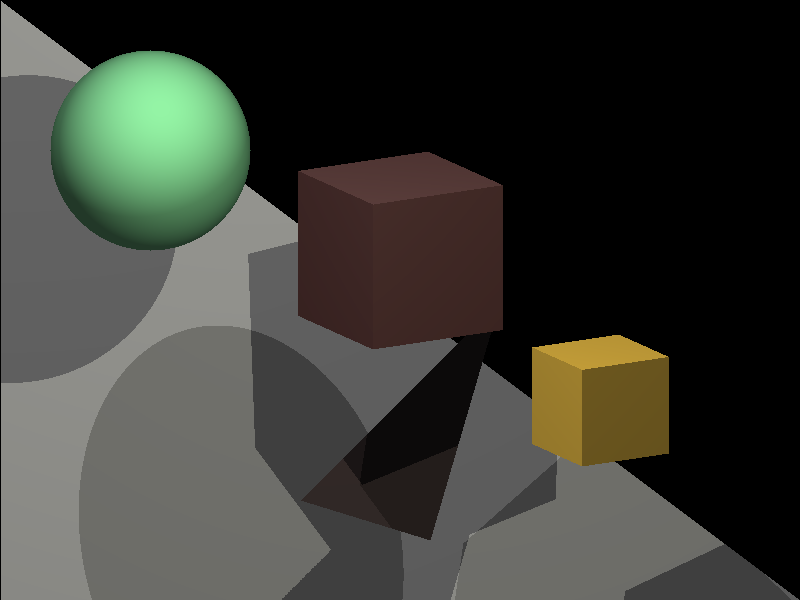
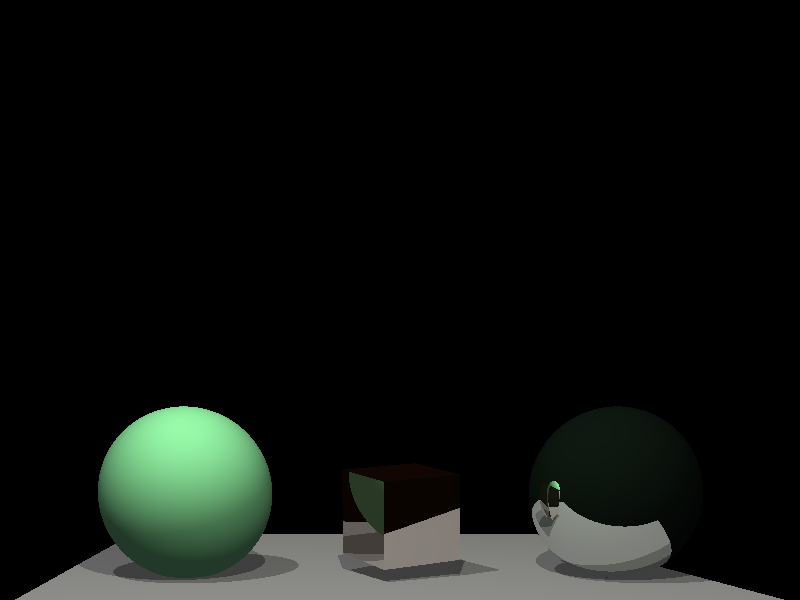
fix reflection and start work on specular coloring

diff --git a/Commons/RayTracer.cs b/Commons/RayTracer.cs
@@ -3,9 +3,8 @@ using Commons.Lighting;
 
 namespace Commons;
 
-public class RayTracer(List<IObject3D> sceneObjects, List<LightSource> lightSources, int maxDepth = 10)
+public class RayTracer(List<IObject3D> sceneObjects, List<LightSource> lightSources, int maxDepth = 6)
 {
-    private int _maxDepth = maxDepth;
     public List<IObject3D> SceneObjects => sceneObjects;
     public List<LightSource> LightSources => lightSources;
 
@@ -25,7 +24,6 @@ public class RayTracer(List<IObject3D> sceneObjects, List<LightSource> lightSour
                 var intersectionPoint = CalcHelper.IntersectionPoint(ray, intersectionDistance);
 
                 color = CalcColor(ray, sceneObject, intersectionPoint, depth);
-                //color += sceneObject.Color * AmbientLight;
             }
         }
 
@@ -40,17 +38,14 @@ public class RayTracer(List<IObject3D> sceneObjects, List<LightSource> lightSour
             var vectorToLightSource = (lightSource.Position - intersectionPoint).Normalize();
             var intersectionPointIsInShadow = CheckRayIntersectionWithOtherObjects(vectorToLightSource, intersectionPoint, lightSource, sceneObject);
 
-            if (!intersectionPointIsInShadow)
-            {
-                var colorFactor = Math.Max(0, sceneObject.Normalized.ScalarProduct(vectorToLightSource));
-                color += sceneObject.Material.Diffuse * lightSource.Color * colorFactor * lightSource.Intensity * (1.0 / LightSources.Count);
-            }
+            if (!intersectionPointIsInShadow) color += AddDiffuseColoring(sceneObject, lightSource, vectorToLightSource);
+            //color += AddSpecularColoring(sceneObject, lightSource, vectorToLightSource, ray);
         }
 
         if (sceneObject.Material.Reflectivity > 0 && currentDepth < maxDepth)
         {
             var reflectionDirection = CalcReflectionDir(ray.Direction, sceneObject);
-            var reflectionRay = new Ray(intersectionPoint, reflectionDirection);
+            var reflectionRay = new Ray(intersectionPoint + reflectionDirection * MathConstants.Epsilon, reflectionDirection);
 
             var reflectionColor = CalcRay(reflectionRay, currentDepth + 1);
 
@@ -58,6 +53,29 @@ public class RayTracer(List<IObject3D> sceneObjects, List<LightSource> lightSour
         }
 
         return color;
+    }
+
+    private RgbColor AddSpecularColoring(IObject3D sceneObject, LightSource lightSource, Vector3D vectorToLightSource, Ray ray)
+    {
+        if (sceneObject.Material.Shininess > 0)
+        {
+            var lightIntensity = lightSource.Intensity * (1.0 / LightSources.Count);
+            var reflection = CalcReflectionDir(-vectorToLightSource, sceneObject);
+            var specularExponent = sceneObject.Material.Shininess * MathConstants.ShininessMultiplier;
+            var shininessFactor = Math.Pow(Math.Max(0, reflection.ScalarProduct(-ray.Direction)), specularExponent);
+
+            return sceneObject.Material.Specular * lightIntensity * shininessFactor;
+        }
+
+        return new RgbColor(0, 0, 0);
+    }
+
+    private RgbColor AddDiffuseColoring(IObject3D sceneObject, LightSource lightSource, Vector3D vectorToLightSource)
+    {
+        var lightIntensity = lightSource.Intensity * (1.0 / LightSources.Count);
+        var colorFactor = Math.Max(0, sceneObject.Normalized.ScalarProduct(vectorToLightSource));
+
+        return sceneObject.Material.Diffuse * lightSource.Color * colorFactor * lightIntensity;
     }
 
     private bool CheckRayIntersectionWithOtherObjects(Vector3D vectorToLightSource, Vector3D intersectionPoint, LightSource lightSource, IObject3D self)

diff --git a/Reflection/Program.cs b/Reflection/Program.cs
@@ -16,13 +16,15 @@ internal static class Program
 
     private static readonly List<IObject3D> Objects3D =
     [
-        new Triangle(new Vector3D(0, 600, 600), new Vector3D(800, 600, 600), new Vector3D(0, 0, 600), MaterialFactory.Create(MaterialType.Chrome, 0)),
-
-        new Triangle(new Vector3D(430, 540, 400), new Vector3D(500, 300, 400), new Vector3D(300, 500, 400), MaterialFactory.Create(MaterialType.Copper, 0)),
-        new Cube(new Vector3D(600, 400, 100), 100, MaterialFactory.Create(MaterialType.Gold, 0), 30),
-
-        new Cube(new Vector3D(400, 250, 200), 150, MaterialFactory.Create(MaterialType.RedRubber, 0), 30),
-        new Sphere(new Vector3D(150, 150, 200), 100, MaterialFactory.Create(MaterialType.Jade, 0))
+        new Sphere(new Vector3D(150, 475, 200), 100, MaterialFactory.Create(MaterialType.Jade, 0)),
+        new Cube(new Vector3D(400, 500, 200), 100, MaterialFactory.Create(MaterialType.Copper, 0.9), 30),
+        new Sphere(new Vector3D(650, 475, 200), 100, MaterialFactory.Create(MaterialType.Jade, 0.9)),
+        //floor
+        new Triangle(new Vector3D(0, 600, 40), new Vector3D(800, 600, 40), new Vector3D(0, 500, 600), MaterialFactory.Create(MaterialType.Chrome, 0)),
+        new Triangle(new Vector3D(800, 600, 40), new Vector3D(600, 500, 600), new Vector3D(0, 500, 600), MaterialFactory.Create(MaterialType.Chrome, 0))
+        //walls
+        //new Triangle(new Vector3D(0, 600, 40), new Vector3D(0, 0, 40), new Vector3D(40, 0, 600), MaterialFactory.Create(MaterialType.Chrome, 0)),
+        //new Triangle(new Vector3D(800, 600, 40), new Vector3D(800, 0, 40), new Vector3D(760, 0, 600), MaterialFactory.Create(MaterialType.Chrome, 0))
     ];
 
     private static readonly List<LightSource> LightSources =
@@ -52,7 +54,12 @@ internal static class Program
         for (var y = 0; y < Height; y++)
             for (var x = 0; x < Width; x++)
             {
-                var rayIntoScreen = new Ray(new Vector3D(x, y, 0), new Vector3D(0, 0, 1));
+                var origin = new Vector3D(x, y, 0);
+                var focus = new Vector3D(Width / 2, 599, -1200);
+                var direction = origin - focus;
+                var rayIntoScreen = new Ray(origin, direction);
+
+
                 var color = rayTracer.CalcRay(rayIntoScreen);
                 image[x, y] = color.ConvertToRgba32();
             }

diff --git a/random-pixel-image/obj/Debug/net9.0/random-pixel-image.AssemblyInfo.cs b/random-pixel-image/obj/Debug/net9.0/random-pixel-image.AssemblyInfo.cs
@@ -13,7 +13,7 @@ using System.Reflection;
 [assembly: System.Reflection.AssemblyCompanyAttribute("random-pixel-image")]
 [assembly: System.Reflection.AssemblyConfigurationAttribute("Debug")]
 [assembly: System.Reflection.AssemblyFileVersionAttribute("1.0.0.0")]
-[assembly: System.Reflection.AssemblyInformationalVersionAttribute("1.0.0+dc7f8d16df0912e6e0243f245f10f631d2d5f952")]
+[assembly: System.Reflection.AssemblyInformationalVersionAttribute("1.0.0+907421813b6e96398edb88ed689b55dbc2307682")]
 [assembly: System.Reflection.AssemblyProductAttribute("random-pixel-image")]
 [assembly: System.Reflection.AssemblyTitleAttribute("random-pixel-image")]
 [assembly: System.Reflection.AssemblyVersionAttribute("1.0.0.0")]

diff --git a/SimpleCircle/obj/Debug/net9.0/SimpleCircle.AssemblyInfo.cs b/SimpleCircle/obj/Debug/net9.0/SimpleCircle.AssemblyInfo.cs
@@ -13,7 +13,7 @@ using System.Reflection;
 [assembly: System.Reflection.AssemblyCompanyAttribute("SimpleCircle")]
 [assembly: System.Reflection.AssemblyConfigurationAttribute("Debug")]
 [assembly: System.Reflection.AssemblyFileVersionAttribute("1.0.0.0")]
-[assembly: System.Reflection.AssemblyInformationalVersionAttribute("1.0.0+dc7f8d16df0912e6e0243f245f10f631d2d5f952")]
+[assembly: System.Reflection.AssemblyInformationalVersionAttribute("1.0.0+907421813b6e96398edb88ed689b55dbc2307682")]
 [assembly: System.Reflection.AssemblyProductAttribute("SimpleCircle")]
 [assembly: System.Reflection.AssemblyTitleAttribute("SimpleCircle")]
 [assembly: System.Reflection.AssemblyVersionAttribute("1.0.0.0")]

diff --git a/Commons/3D/Vector3D.cs b/Commons/3D/Vector3D.cs
@@ -10,6 +10,7 @@ public class Vector3D(double x, double y, double z)
 
     public static Vector3D operator +(Vector3D a, Vector3D b) => new(a.X + b.X, a.Y + b.Y, a.Z + b.Z);
     public static Vector3D operator -(Vector3D a, Vector3D b) => new(a.X - b.X, a.Y - b.Y, a.Z - b.Z);
+    public static Vector3D operator -(Vector3D a) => new(-a.X, -a.Y, -a.Z);
     public static Vector3D operator *(Vector3D a, int scalar) => new(a.X * scalar, a.Y * scalar, a.Z * scalar);
     public static Vector3D operator *(Vector3D a, double scalar) => new(a.X * scalar, a.Y * scalar, a.Z * scalar);
 

diff --git a/Commons/3D/Sphere.cs b/Commons/3D/Sphere.cs
@@ -26,7 +26,12 @@ public class Sphere(Vector3D center, int radius, Material material) : IObject3D
         var x1 = (-b + Math.Sqrt(discriminant)) / (2 * a);
         var x2 = (-b - Math.Sqrt(discriminant)) / (2 * a);
 
+
         var intersectionDistance = x1 < x2 ? x1 : x2;
+
+        // workaround for catching self intersection
+        if (intersectionDistance is < MathConstants.Epsilon)
+            return (false, double.MaxValue);
 
         Normalized = (ray.Origin + ray.Direction * intersectionDistance - Center).Normalize();
 

diff --git a/Commons/MathConstants.cs b/Commons/MathConstants.cs
@@ -3,4 +3,5 @@
 public static class MathConstants
 {
     public const double Epsilon = 1e-4;
+    public const int ShininessMultiplier = 128;
 }
